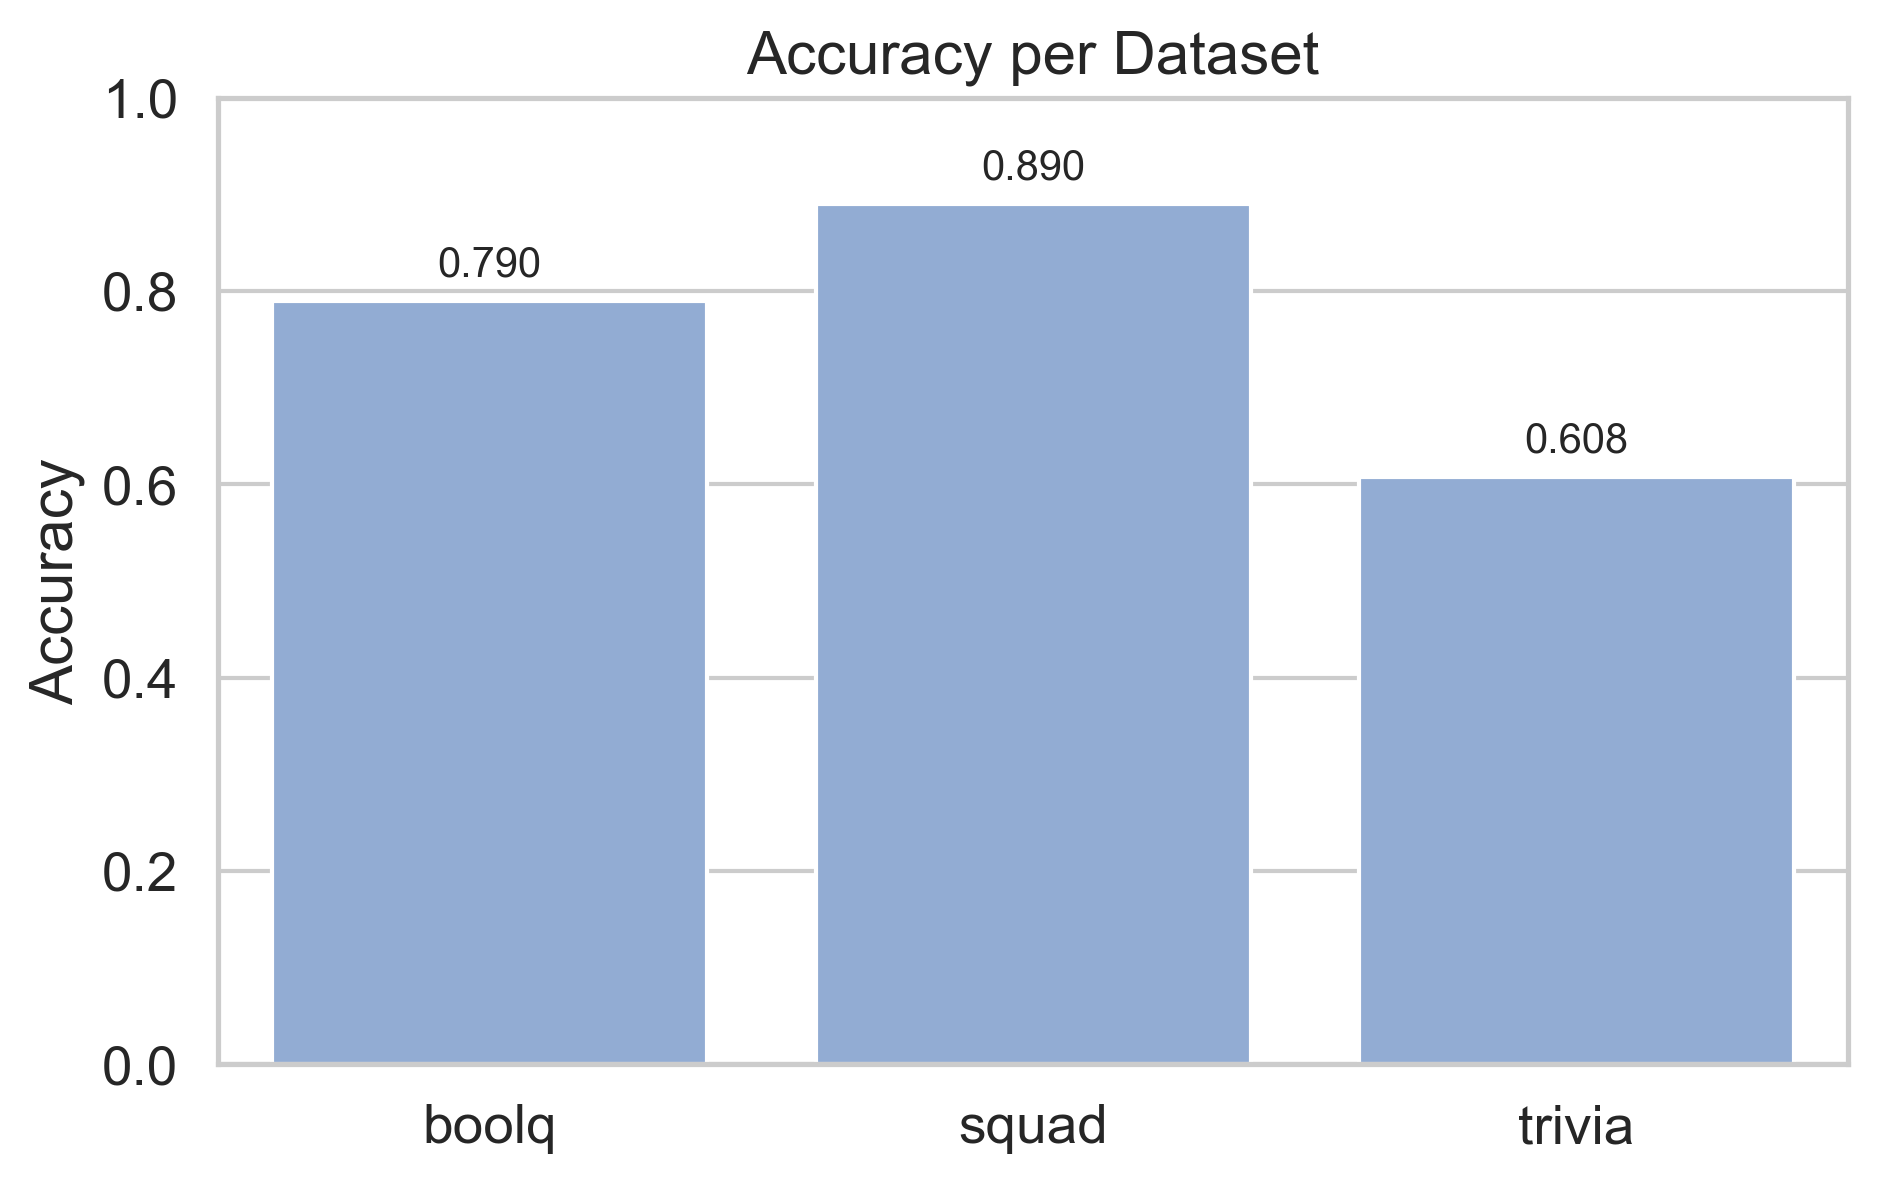
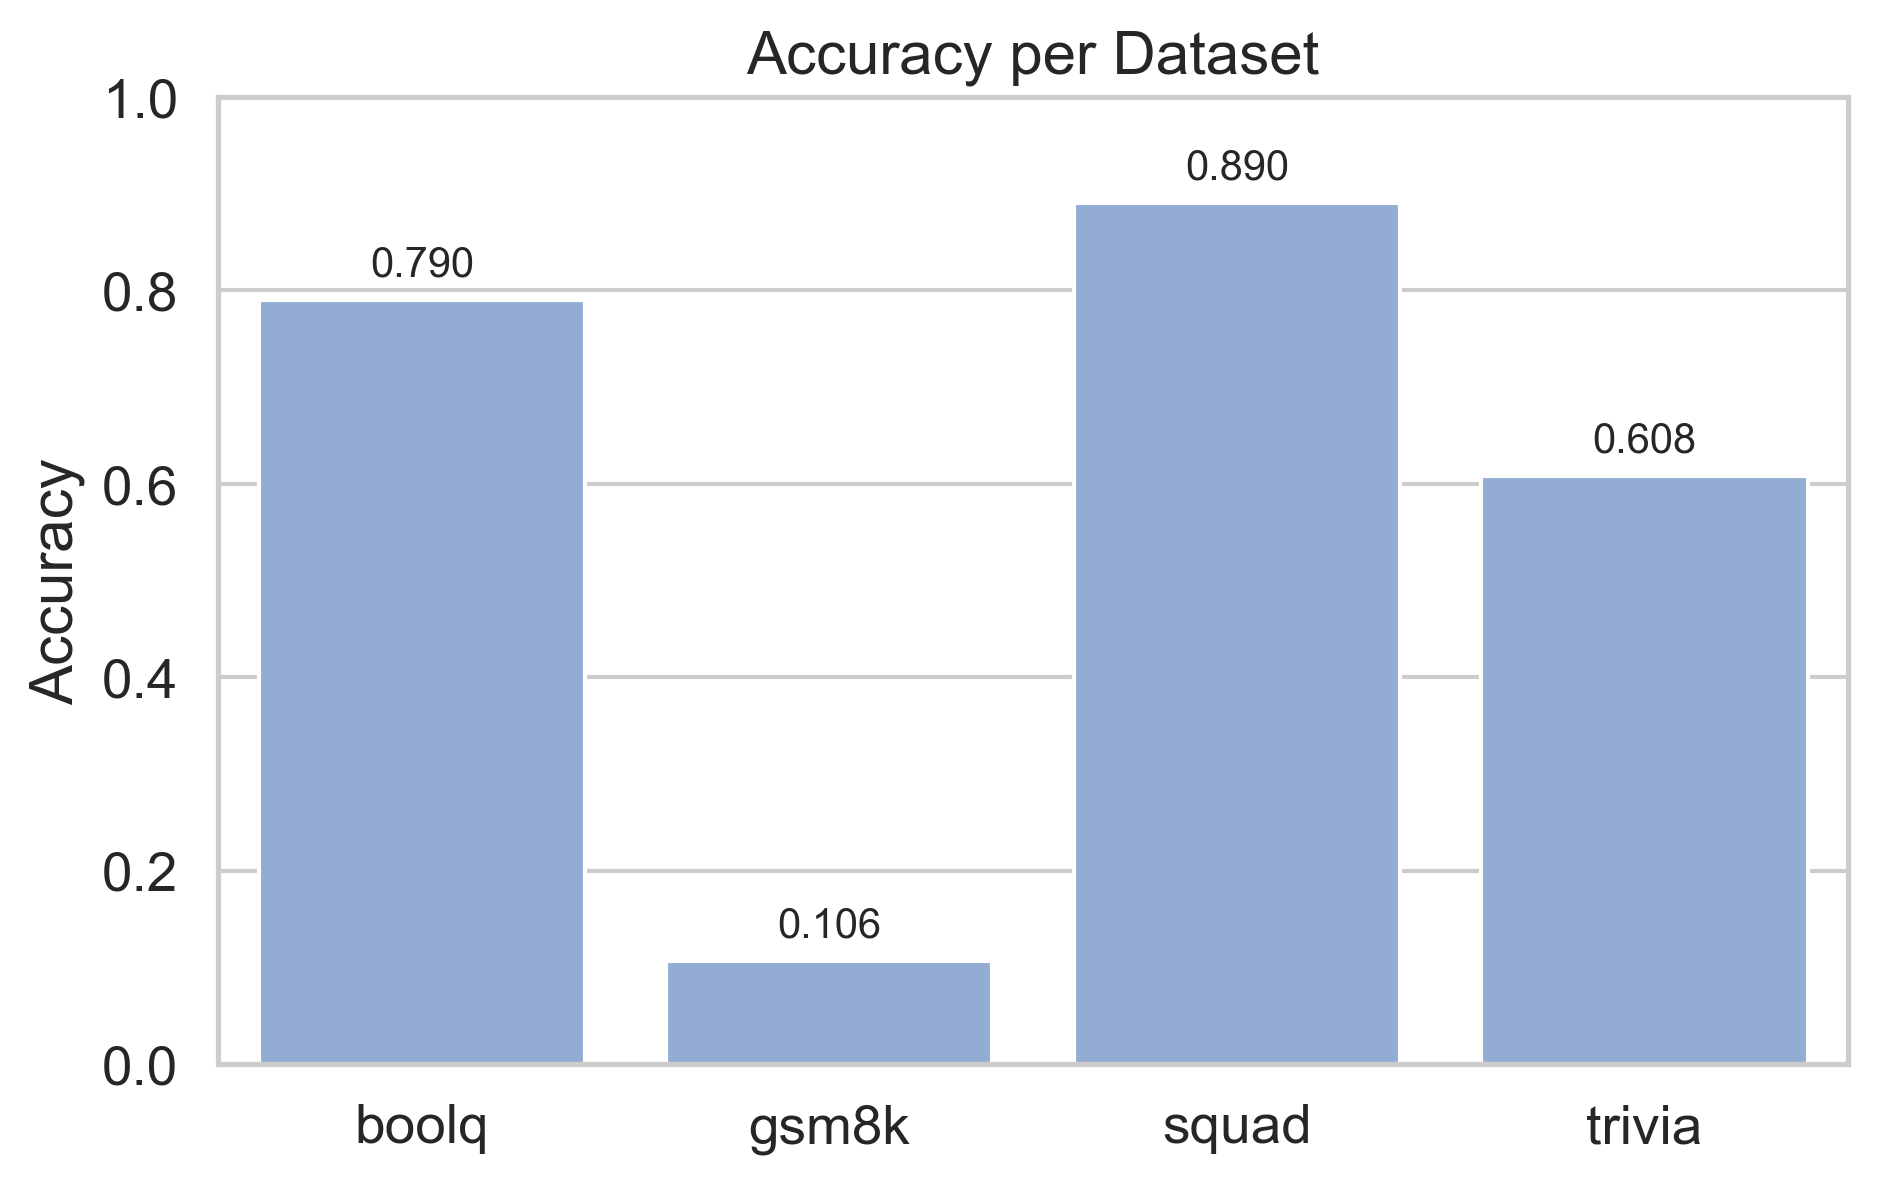
First gsm8k cocoa analysis

diff --git a/scripts/llm_polygraph_uncertainty_runner_ext.py b/scripts/llm_polygraph_uncertainty_runner_ext.py
@@ -119,7 +119,7 @@ def build_input_text(row, dataset_name: str) -> str:
             "Answer:"
         )
     elif dataset_name == "gsm8k":
-        return f"Solve the problem. Give only the final numeric answer.\nProblem: {row.get('question','')}\nAnswer:"
+        return f"You are a math tutor. Solve the following problem carefully and provide only the numerical answer.\nProblem: {row.get('question','')}"
     else:
         raise ValueError(f"Unsupported dataset: {dataset_name}")
 
